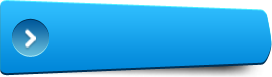
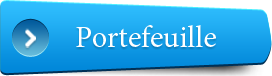
media request

diff --git a/style/main.css b/style/main.css
@@ -81,14 +81,16 @@ main h1{
 .profile-foto {
 	position: relative;
 	float: left;
-	width: 210px;
-	height: 188px;
+	width: 37%;
 	margin-right: 36px;
 	margin-bottom: 60px;
-	background: #f4e2b7 url(../images/jean.png) no-repeat bottom center;
+	color: #fff;
+}
+.profile-foto img {
+	width: 100%;
+	height: auto;
 	border: 4px solid #63a815;
 	border-radius: 10px;
-	color: #fff;
 }
 a.del-foto {
 	display: none;
@@ -128,10 +130,12 @@ a.del-foto:hover::before {
 	height: 0;
 	position: absolute;
 	bottom: 0;
-	width: 100%;
+	width: 96%;
 	background: #000;
 	background-color: rgba(0,0,0,0.65);
-	padding-left: 32px;
+	text-align: center;
+	border-radius: 0 0 6px 6px;
+	margin: 0 4px 7px 4px;
 	-webkit-transition: height .3s ease-in-out;
 	   -moz-transition: height .3s ease-in-out;
 	     -o-transition: height .3s ease-in-out;
@@ -146,7 +150,7 @@ a.del-foto:hover::before {
 }
 .edit-foto a:last-child {background: url(../images/rectangle.png) no-repeat left 50%;}
 .profile-foto:hover .edit-foto {
-	height: 47px;
+	height: 25%;
 }
 .profile-foto:hover .edit-foto a {display: inline-block;}
 .profile-foto:hover a.del-foto {display: block;}
@@ -169,14 +173,11 @@ a.star {
 }
 a.profile-portfolio {
 	display: inline-block;
-	width: 272px;
-	height: 75px;
-	font-family: 'MinionPro'; 
-	font-size:30px;
-	line-height: 75px;
-	padding-left: 74px;
-	color: #fff;
-	background: url(../images/portfolio-btn.png);
+	width: 48%;
+}
+a.profile-portfolio img {
+	width: 100%;
+	height: auto;
 }
 a.profile-portfolio:hover {
 	text-decoration: none;
@@ -215,9 +216,11 @@ a.star-active {background: url(../images/star2.png);}
 }
 a.bookmarks-item {
 	display: inline-block;
+	width: 33%;
 	background: #ace2fc;
 	border-left: 1px solid #fff;
-	padding: 17px 43px 14px 30px;
+	padding: 17px 0 14px 0;
+	text-align: center;
 	border-radius: 6px 0 0 0;
 	font-size: 18px;
 	color: #164879;
@@ -227,7 +230,7 @@ a.bookmarks-item:first-child {
 	border-left: 0;
 }
 a.bookmarks-item:last-child {
-	padding-right: 30px;
+	width: 38%;
 }
 a.bookmarks-item:hover {
 	text-decoration: none;
@@ -241,9 +244,6 @@ a.bookmark-active {background: #86ce01;}
 }
 .bookmarks-item-text p {padding-bottom: 25px;}
 .text-active {display: block;}
-.video {
-	
-}
 .video-item {
 	width: 326px;
 	margin: 30px 55px 30px 67px;
@@ -265,3 +265,44 @@ a.bookmark-active {background: #86ce01;}
 	text-align: center;
 	line-height: 26px;
 }
+
+
+@media only screen and (max-width: 980px) {
+	.wrapper{
+		padding-left: 10px;
+		padding-right: 10px;
+	}
+	.edit-foto {width: 94%;}
+	.edit-foto a {
+		height: 40%;
+		font-size: 0.7em;
+		padding-left: 20px;
+		line-height: 15px;
+	}
+	.profile-foto {margin-bottom: 20px;}
+	.profile-info h2 {
+		margin: 0;
+		font-size: 20px;
+	}
+	.content {width: 49%;}
+	a.bookmarks-item {font-size: 12px;}
+	.video {padding-top: 30px;}
+	.video-item {
+		margin: 0 auto;
+    	margin-bottom: 30px;
+	}
+}
+
+@media only screen and (max-width: 640px) {
+	.edit-foto {width: 93%;}
+	.profile, .content {
+		float: none;
+		width: 100%;
+	}
+	h1 {font-size: 2em;}
+	.edit-foto {width: 95%;}
+	a.bookmarks-item:last-child {
+    	width: 37%;
+	}
+}
+

diff --git a/index.html b/index.html
@@ -73,6 +73,7 @@
 					<div class="profile-item clearfix">
 						<h1>bureau privé</h1>
 						<div class="profile-foto">
+							<img src="images/jean.png" alt="Jean Gabin">
 							<a href="" class="del-foto" data-title="удалить фото">x</a>
 							<div class="edit-foto">
 								<a href="#">Ajouter une photo </a>
@@ -89,7 +90,7 @@
 								<i><a href="#" class="star"></a></i>
 							</div>
 							<p>Organization</p>
-							<a href="#" class="profile-portfolio" id="portfolio-button">Portefeuille</a>
+							<a href="#" class="profile-portfolio" id="portfolio-button"><img src="images/portfolio-btn.png" alt=""></a>
 						</div>
 					</div>
 					<div class="profile-post clearfix">
